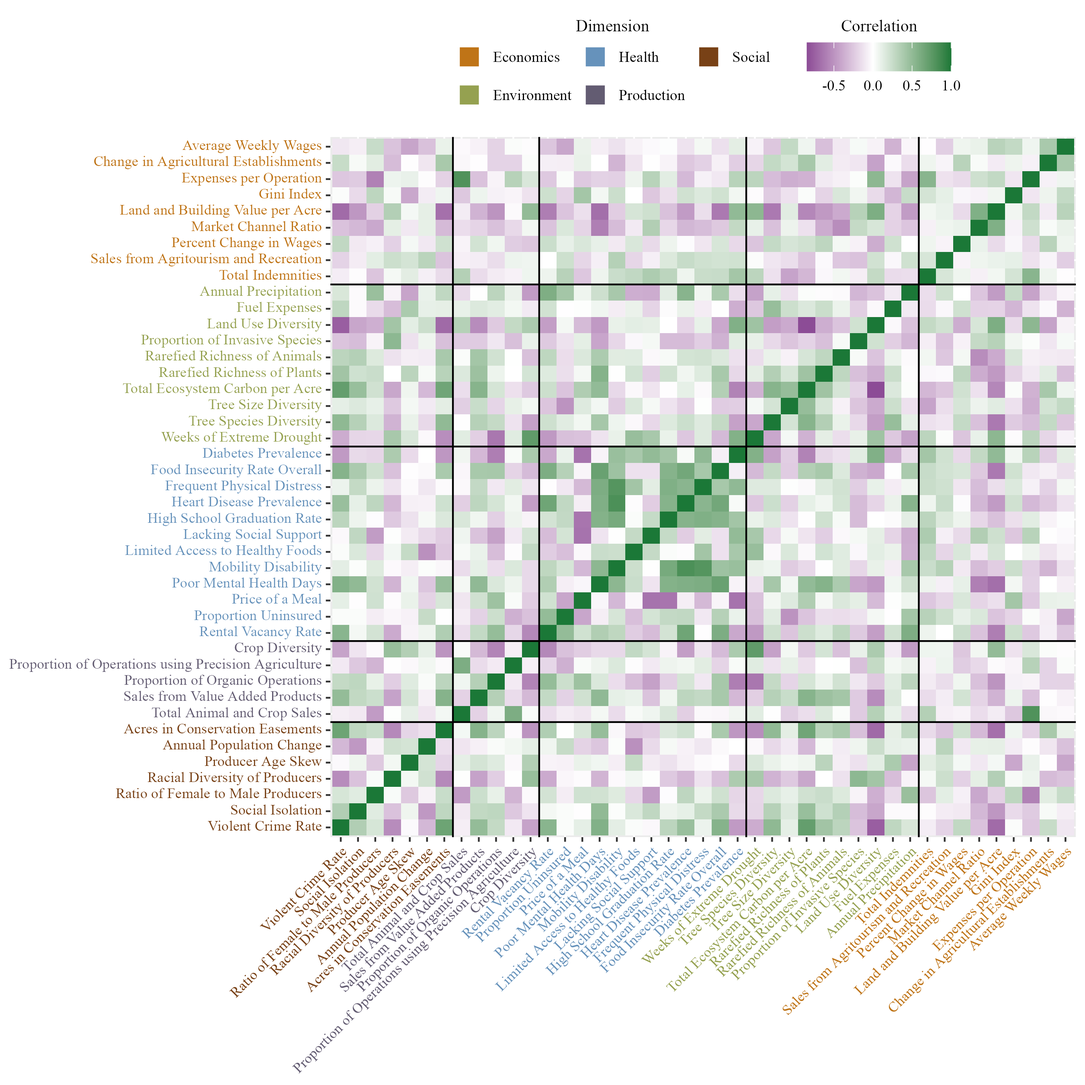
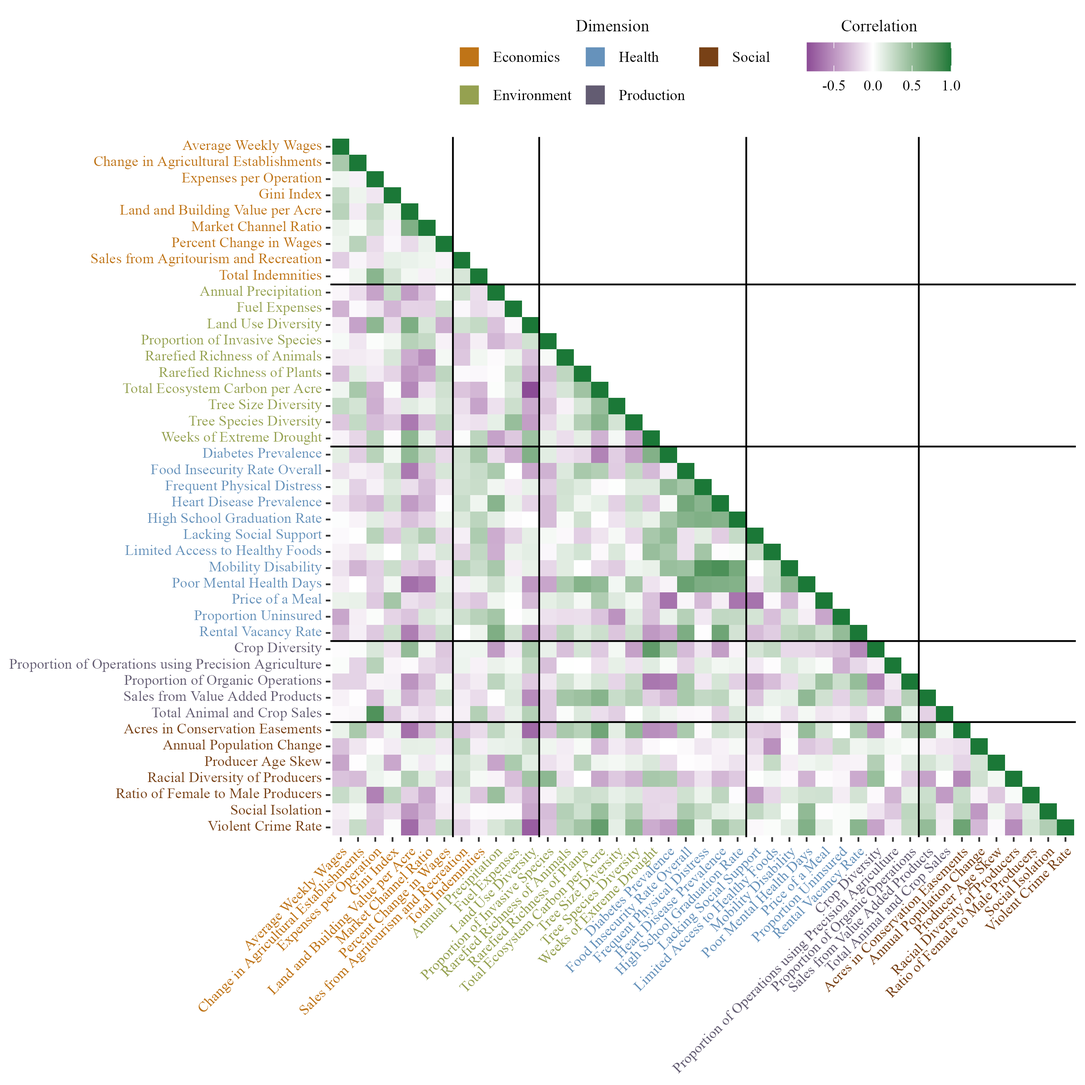
make correlation plot into triangle, transparent background, line placement no longer correct

diff --git a/outputs/tab_correlations.tex b/outputs/tab_correlations.tex
@@ -3,63 +3,61 @@
 \caption{\label{tab:tab_correlations}Correlation matrix of metrics using latest available time point}
 \centering
 \fontsize{5}{7}\selectfont
-\begin{tabular}[t]{lrrrrrrrrrrrrrrrrrrrrrrrrrrrrrrrrrrrrrrrrrrrrr}
+\begin{tabular}[t]{lrrrrrrrrrrrrrrrrrrrrrrrrrrrrrrrrrrrrrrrrrrr}
 \toprule
-var & Social & Ratio  & Racial & Produc & Firear & Annual & Acres  & Total  & Sales  & Propor & Propor & Crop D & Rental & Propor & Price  & Poor M & Mobili & Limite & Lackin & High S & Heart  & Freque & Food I & Diabet & Weeks  & Tree S & Tree S & Total  & Soil O & Rarefi & Rarefi & Propor & Land U & Fuel E & Availa & Annual & Total  & Sales  & Percen & Market & Land a & Gini I & Expens & Change & Averag\\
+var & Violen & Social & Ratio  & Racial & Produc & Annual & Acres  & Total  & Sales  & Propor & Propor & Crop D & Rental & Propor & Price  & Poor M & Mobili & Limite & Lackin & High S & Heart  & Freque & Food I & Diabet & Weeks  & Tree S & Tree S & Total  & Rarefi & Rarefi & Propor & Land U & Fuel E & Annual & Total  & Sales  & Percen & Market & Land a & Gini I & Expens & Change & Averag\\
 \midrule
-Social & 1.000 & 0.141 & -0.278 & 0.074 & 0.294 & -0.477 & 0.290 & -0.099 & 0.280 & 0.295 & -0.251 & -0.121 & 0.048 & 0.021 & -0.008 & 0.507 & 0.017 & 0.167 & 0.289 & 0.077 & 0.112 & 0.271 & 0.384 & -0.170 & -0.185 & 0.332 & 0.158 & 0.471 & 0.511 & 0.221 & 0.341 & -0.303 & -0.412 & -0.025 & 0.421 & -0.023 & -0.014 & -0.085 & -0.098 & -0.327 & -0.481 & -0.167 & -0.236 & 0.038 & -0.078\\
-Ratio & 0.141 & 1.000 & 0.029 & -0.248 & 0.158 & -0.060 & 0.250 & -0.462 & 0.235 & 0.105 & -0.345 & -0.025 & 0.200 & -0.082 & 0.217 & 0.209 & 0.147 & -0.180 & -0.460 & -0.011 & 0.295 & 0.087 & 0.218 & -0.187 & -0.182 & 0.157 & 0.109 & 0.215 & 0.425 & 0.244 & 0.156 & -0.052 & -0.366 & -0.166 & 0.073 & 0.465 & -0.266 & 0.126 & -0.066 & -0.399 & -0.210 & 0.300 & -0.587 & 0.133 & 0.253\\
-Racial & -0.278 & 0.029 & 1.000 & 0.054 & -0.483 & 0.215 & -0.549 & 0.009 & -0.431 & -0.223 & -0.004 & 0.472 & -0.391 & -0.041 & -0.017 & -0.344 & -0.025 & 0.056 & 0.008 & -0.246 & -0.332 & -0.128 & -0.282 & 0.377 & 0.399 & -0.348 & -0.248 & -0.408 & -0.281 & 0.002 & -0.132 & 0.523 & 0.422 & -0.301 & -0.253 & -0.054 & 0.045 & 0.232 & -0.208 & 0.118 & 0.347 & 0.035 & 0.081 & -0.307 & -0.275\\
-Produc & 0.074 & -0.248 & 0.054 & 1.000 & -0.060 & 0.194 & -0.192 & 0.113 & 0.196 & 0.145 & -0.033 & 0.350 & -0.053 & -0.062 & 0.097 & 0.067 & -0.077 & 0.265 & -0.091 & -0.132 & -0.068 & -0.023 & -0.011 & -0.168 & 0.171 & 0.096 & 0.049 & 0.074 & -0.024 & 0.311 & -0.077 & -0.136 & 0.125 & 0.383 & 0.268 & -0.419 & 0.128 & 0.195 & 0.048 & -0.102 & 0.047 & -0.404 & 0.099 & -0.007 & -0.417\\
-Firear & 0.294 & 0.158 & -0.483 & -0.060 & 1.000 & 0.022 & 0.593 & 0.031 & 0.267 & 0.453 & -0.201 & -0.565 & 0.670 & 0.557 & -0.062 & 0.340 & 0.092 & -0.371 & -0.101 & 0.332 & 0.400 & -0.033 & 0.491 & -0.438 & -0.656 & 0.452 & -0.198 & 0.354 & 0.533 & 0.185 & 0.245 & -0.322 & -0.486 & 0.214 & 0.440 & 0.428 & 0.038 & 0.044 & 0.272 & -0.327 & -0.769 & -0.205 & -0.192 & 0.232 & -0.163\\
+Violen & 1.000 & 0.355 & 0.184 & -0.536 & -0.027 & -0.325 & 0.673 & -0.075 & 0.491 & 0.271 & -0.098 & -0.426 & 0.543 & 0.022 & 0.116 & 0.574 & 0.121 & 0.024 & -0.032 & 0.308 & 0.467 & 0.084 & 0.558 & -0.470 & -0.380 & 0.516 & 0.117 & 0.714 & 0.428 & 0.304 & -0.269 & -0.755 & 0.292 & 0.175 & -0.080 & -0.199 & 0.282 & -0.277 & -0.695 & 0.019 & -0.255 & 0.256 & -0.109\\
+Social & 0.355 & 1.000 & 0.141 & -0.278 & 0.074 & -0.477 & 0.290 & -0.099 & 0.280 & 0.295 & -0.251 & -0.121 & 0.048 & 0.021 & -0.008 & 0.507 & 0.017 & 0.167 & 0.289 & 0.077 & 0.112 & 0.271 & 0.384 & -0.170 & -0.185 & 0.332 & 0.158 & 0.471 & 0.221 & 0.341 & -0.303 & -0.412 & -0.025 & -0.023 & -0.014 & -0.085 & -0.098 & -0.327 & -0.481 & -0.167 & -0.236 & 0.038 & -0.078\\
+Ratio & 0.184 & 0.141 & 1.000 & 0.029 & -0.248 & -0.060 & 0.250 & -0.462 & 0.235 & 0.105 & -0.345 & -0.025 & 0.200 & -0.082 & 0.217 & 0.209 & 0.147 & -0.180 & -0.460 & -0.011 & 0.295 & 0.087 & 0.218 & -0.187 & -0.182 & 0.157 & 0.109 & 0.215 & 0.244 & 0.156 & -0.052 & -0.366 & -0.166 & 0.465 & -0.266 & 0.126 & -0.066 & -0.399 & -0.210 & 0.300 & -0.587 & 0.133 & 0.253\\
+Racial & -0.536 & -0.278 & 0.029 & 1.000 & 0.054 & 0.215 & -0.549 & 0.009 & -0.431 & -0.223 & -0.004 & 0.472 & -0.391 & -0.041 & -0.017 & -0.344 & -0.025 & 0.056 & 0.008 & -0.246 & -0.332 & -0.128 & -0.282 & 0.377 & 0.399 & -0.348 & -0.248 & -0.408 & 0.002 & -0.132 & 0.523 & 0.422 & -0.301 & -0.054 & 0.045 & 0.232 & -0.208 & 0.118 & 0.347 & 0.035 & 0.081 & -0.307 & -0.275\\
+Produc & -0.027 & 0.074 & -0.248 & 0.054 & 1.000 & 0.194 & -0.192 & 0.113 & 0.196 & 0.145 & -0.033 & 0.350 & -0.053 & -0.062 & 0.097 & 0.067 & -0.077 & 0.265 & -0.091 & -0.132 & -0.068 & -0.023 & -0.011 & -0.168 & 0.171 & 0.096 & 0.049 & 0.074 & 0.311 & -0.077 & -0.136 & 0.125 & 0.383 & -0.419 & 0.128 & 0.195 & 0.048 & -0.102 & 0.047 & -0.404 & 0.099 & -0.007 & -0.417\\
 \addlinespace
-Annual & -0.477 & -0.060 & 0.215 & 0.194 & 0.022 & 1.000 & -0.144 & -0.116 & -0.069 & 0.027 & 0.060 & 0.116 & 0.070 & 0.262 & -0.201 & -0.261 & 0.016 & -0.515 & -0.167 & 0.042 & -0.061 & -0.109 & -0.028 & 0.001 & -0.032 & -0.174 & -0.096 & -0.319 & -0.194 & 0.038 & -0.087 & 0.072 & 0.238 & 0.108 & -0.081 & 0.094 & -0.072 & 0.317 & -0.106 & 0.109 & 0.114 & -0.088 & -0.012 & -0.115 & -0.285\\
-Acres & 0.290 & 0.250 & -0.549 & -0.192 & 0.593 & -0.144 & 1.000 & 0.053 & 0.555 & 0.304 & -0.024 & -0.496 & 0.360 & -0.006 & 0.181 & 0.481 & -0.038 & -0.249 & -0.226 & 0.165 & 0.221 & -0.020 & 0.391 & -0.483 & -0.526 & 0.505 & 0.124 & 0.658 & 0.673 & 0.323 & 0.395 & -0.289 & -0.702 & 0.114 & 0.580 & 0.287 & -0.165 & -0.268 & 0.220 & -0.315 & -0.668 & 0.071 & -0.206 & 0.396 & 0.095\\
-Total & -0.099 & -0.462 & 0.009 & 0.113 & 0.031 & -0.116 & 0.053 & 1.000 & -0.204 & 0.066 & 0.600 & 0.028 & -0.152 & -0.086 & -0.115 & 0.049 & -0.160 & 0.037 & 0.071 & 0.171 & -0.217 & -0.031 & -0.039 & 0.064 & 0.134 & 0.006 & -0.221 & -0.148 & -0.106 & 0.157 & 0.021 & -0.237 & 0.338 & 0.103 & -0.123 & -0.165 & 0.343 & -0.071 & -0.055 & -0.153 & -0.087 & -0.253 & 0.804 & -0.038 & -0.026\\
-Sales & 0.280 & 0.235 & -0.431 & 0.196 & 0.267 & -0.069 & 0.555 & -0.204 & 1.000 & 0.340 & -0.157 & -0.322 & 0.272 & -0.206 & 0.216 & 0.509 & 0.112 & 0.094 & -0.274 & 0.067 & 0.302 & 0.274 & 0.398 & -0.324 & -0.219 & 0.333 & 0.250 & 0.553 & 0.548 & 0.451 & 0.416 & -0.237 & -0.534 & 0.160 & 0.588 & 0.006 & -0.160 & -0.081 & 0.206 & -0.195 & -0.352 & 0.081 & -0.278 & -0.009 & -0.063\\
-Propor & 0.295 & 0.105 & -0.223 & 0.145 & 0.453 & 0.027 & 0.304 & 0.066 & 0.340 & 1.000 & -0.093 & -0.574 & 0.486 & 0.232 & 0.447 & 0.167 & -0.152 & -0.301 & -0.434 & -0.214 & 0.190 & -0.103 & 0.405 & -0.601 & -0.635 & 0.266 & -0.192 & 0.189 & 0.377 & 0.083 & 0.211 & -0.110 & -0.241 & 0.130 & 0.301 & 0.308 & -0.090 & -0.156 & 0.067 & -0.282 & -0.498 & -0.065 & -0.052 & -0.199 & -0.202\\
+Annual & -0.325 & -0.477 & -0.060 & 0.215 & 0.194 & 1.000 & -0.144 & -0.116 & -0.069 & 0.027 & 0.060 & 0.116 & 0.070 & 0.262 & -0.201 & -0.261 & 0.016 & -0.515 & -0.167 & 0.042 & -0.061 & -0.109 & -0.028 & 0.001 & -0.032 & -0.174 & -0.096 & -0.319 & 0.038 & -0.087 & 0.072 & 0.238 & 0.108 & 0.094 & -0.072 & 0.317 & -0.106 & 0.109 & 0.114 & -0.088 & -0.012 & -0.115 & -0.285\\
+Acres & 0.673 & 0.290 & 0.250 & -0.549 & -0.192 & -0.144 & 1.000 & 0.053 & 0.555 & 0.304 & -0.024 & -0.496 & 0.360 & -0.006 & 0.181 & 0.481 & -0.038 & -0.249 & -0.226 & 0.165 & 0.221 & -0.020 & 0.391 & -0.483 & -0.526 & 0.505 & 0.124 & 0.658 & 0.323 & 0.395 & -0.289 & -0.702 & 0.114 & 0.287 & -0.165 & -0.268 & 0.220 & -0.315 & -0.668 & 0.071 & -0.206 & 0.396 & 0.095\\
+Total & -0.075 & -0.099 & -0.462 & 0.009 & 0.113 & -0.116 & 0.053 & 1.000 & -0.204 & 0.066 & 0.600 & 0.028 & -0.152 & -0.086 & -0.115 & 0.049 & -0.160 & 0.037 & 0.071 & 0.171 & -0.217 & -0.031 & -0.039 & 0.064 & 0.134 & 0.006 & -0.221 & -0.148 & 0.157 & 0.021 & -0.237 & 0.338 & 0.103 & -0.165 & 0.343 & -0.071 & -0.055 & -0.153 & -0.087 & -0.253 & 0.804 & -0.038 & -0.026\\
+Sales & 0.491 & 0.280 & 0.235 & -0.431 & 0.196 & -0.069 & 0.555 & -0.204 & 1.000 & 0.340 & -0.157 & -0.322 & 0.272 & -0.206 & 0.216 & 0.509 & 0.112 & 0.094 & -0.274 & 0.067 & 0.302 & 0.274 & 0.398 & -0.324 & -0.219 & 0.333 & 0.250 & 0.553 & 0.451 & 0.416 & -0.237 & -0.534 & 0.160 & 0.006 & -0.160 & -0.081 & 0.206 & -0.195 & -0.352 & 0.081 & -0.278 & -0.009 & -0.063\\
+Propor & 0.271 & 0.295 & 0.105 & -0.223 & 0.145 & 0.027 & 0.304 & 0.066 & 0.340 & 1.000 & -0.093 & -0.574 & 0.486 & 0.232 & 0.447 & 0.167 & -0.152 & -0.301 & -0.434 & -0.214 & 0.190 & -0.103 & 0.405 & -0.601 & -0.635 & 0.266 & -0.192 & 0.189 & 0.083 & 0.211 & -0.110 & -0.241 & 0.130 & 0.308 & -0.090 & -0.156 & 0.067 & -0.282 & -0.498 & -0.065 & -0.052 & -0.199 & -0.202\\
 \addlinespace
-Propor & -0.251 & -0.345 & -0.004 & -0.033 & -0.201 & 0.060 & -0.024 & 0.600 & -0.157 & -0.093 & 1.000 & -0.070 & -0.184 & -0.365 & 0.028 & 0.076 & 0.162 & -0.015 & -0.097 & 0.077 & 0.059 & 0.132 & -0.194 & 0.032 & 0.139 & -0.125 & 0.110 & -0.138 & -0.164 & -0.001 & 0.003 & -0.290 & 0.271 & 0.053 & -0.310 & 0.091 & -0.062 & 0.080 & -0.229 & -0.171 & -0.021 & -0.048 & 0.331 & -0.199 & 0.023\\
-Crop D & -0.121 & -0.025 & 0.472 & 0.350 & -0.565 & 0.116 & -0.496 & 0.028 & -0.322 & -0.574 & -0.070 & 1.000 & -0.556 & -0.284 & -0.227 & -0.174 & -0.172 & 0.279 & 0.196 & -0.055 & -0.449 & -0.117 & -0.311 & 0.383 & 0.734 & -0.434 & 0.053 & -0.247 & -0.297 & 0.198 & -0.288 & 0.099 & 0.381 & -0.094 & -0.155 & -0.463 & 0.075 & 0.071 & -0.256 & 0.060 & 0.496 & -0.130 & 0.171 & 0.022 & -0.013\\
-Rental & 0.048 & 0.200 & -0.391 & -0.053 & 0.670 & 0.070 & 0.360 & -0.152 & 0.272 & 0.486 & -0.184 & -0.556 & 1.000 & 0.493 & 0.213 & 0.357 & 0.294 & -0.230 & -0.309 & 0.202 & 0.664 & -0.010 & 0.599 & -0.401 & -0.474 & 0.222 & -0.264 & 0.233 & 0.374 & 0.148 & 0.295 & -0.244 & -0.449 & 0.208 & 0.307 & 0.591 & 0.077 & 0.001 & 0.240 & -0.275 & -0.603 & 0.228 & -0.245 & -0.073 & -0.258\\
-Propor & 0.021 & -0.082 & -0.041 & -0.062 & 0.557 & 0.262 & -0.006 & -0.086 & -0.206 & 0.232 & -0.365 & -0.284 & 0.493 & 1.000 & -0.410 & -0.076 & 0.188 & -0.295 & 0.197 & 0.274 & 0.281 & -0.103 & 0.334 & 0.093 & -0.288 & 0.134 & -0.500 & -0.267 & 0.028 & -0.146 & -0.153 & -0.133 & 0.049 & -0.003 & 0.036 & 0.416 & 0.325 & 0.228 & 0.107 & 0.167 & -0.271 & -0.197 & 0.022 & -0.077 & -0.408\\
-Price & -0.008 & 0.217 & -0.017 & 0.097 & -0.062 & -0.201 & 0.181 & -0.115 & 0.216 & 0.447 & 0.028 & -0.227 & 0.213 & -0.410 & 1.000 & -0.042 & -0.327 & -0.033 & -0.657 & -0.644 & -0.077 & -0.320 & -0.046 & -0.656 & -0.279 & 0.060 & 0.150 & 0.363 & 0.200 & 0.047 & 0.164 & 0.119 & -0.313 & 0.009 & 0.111 & 0.073 & -0.255 & -0.186 & 0.174 & -0.193 & -0.140 & 0.419 & -0.245 & 0.101 & 0.092\\
+Propor & -0.098 & -0.251 & -0.345 & -0.004 & -0.033 & 0.060 & -0.024 & 0.600 & -0.157 & -0.093 & 1.000 & -0.070 & -0.184 & -0.365 & 0.028 & 0.076 & 0.162 & -0.015 & -0.097 & 0.077 & 0.059 & 0.132 & -0.194 & 0.032 & 0.139 & -0.125 & 0.110 & -0.138 & -0.001 & 0.003 & -0.290 & 0.271 & 0.053 & 0.091 & -0.062 & 0.080 & -0.229 & -0.171 & -0.021 & -0.048 & 0.331 & -0.199 & 0.023\\
+Crop D & -0.426 & -0.121 & -0.025 & 0.472 & 0.350 & 0.116 & -0.496 & 0.028 & -0.322 & -0.574 & -0.070 & 1.000 & -0.556 & -0.284 & -0.227 & -0.174 & -0.172 & 0.279 & 0.196 & -0.055 & -0.449 & -0.117 & -0.311 & 0.383 & 0.734 & -0.434 & 0.053 & -0.247 & 0.198 & -0.288 & 0.099 & 0.381 & -0.094 & -0.463 & 0.075 & 0.071 & -0.256 & 0.060 & 0.496 & -0.130 & 0.171 & 0.022 & -0.013\\
+Rental & 0.543 & 0.048 & 0.200 & -0.391 & -0.053 & 0.070 & 0.360 & -0.152 & 0.272 & 0.486 & -0.184 & -0.556 & 1.000 & 0.493 & 0.213 & 0.357 & 0.294 & -0.230 & -0.309 & 0.202 & 0.664 & -0.010 & 0.599 & -0.401 & -0.474 & 0.222 & -0.264 & 0.233 & 0.148 & 0.295 & -0.244 & -0.449 & 0.208 & 0.591 & 0.077 & 0.001 & 0.240 & -0.275 & -0.603 & 0.228 & -0.245 & -0.073 & -0.258\\
+Propor & 0.022 & 0.021 & -0.082 & -0.041 & -0.062 & 0.262 & -0.006 & -0.086 & -0.206 & 0.232 & -0.365 & -0.284 & 0.493 & 1.000 & -0.410 & -0.076 & 0.188 & -0.295 & 0.197 & 0.274 & 0.281 & -0.103 & 0.334 & 0.093 & -0.288 & 0.134 & -0.500 & -0.267 & -0.146 & -0.153 & -0.133 & 0.049 & -0.003 & 0.416 & 0.325 & 0.228 & 0.107 & 0.167 & -0.271 & -0.197 & 0.022 & -0.077 & -0.408\\
+Price & 0.116 & -0.008 & 0.217 & -0.017 & 0.097 & -0.201 & 0.181 & -0.115 & 0.216 & 0.447 & 0.028 & -0.227 & 0.213 & -0.410 & 1.000 & -0.042 & -0.327 & -0.033 & -0.657 & -0.644 & -0.077 & -0.320 & -0.046 & -0.656 & -0.279 & 0.060 & 0.150 & 0.363 & 0.047 & 0.164 & 0.119 & -0.313 & 0.009 & 0.073 & -0.255 & -0.186 & 0.174 & -0.193 & -0.140 & 0.419 & -0.245 & 0.101 & 0.092\\
 \addlinespace
-Poor M & 0.507 & 0.209 & -0.344 & 0.067 & 0.340 & -0.261 & 0.481 & 0.049 & 0.509 & 0.167 & 0.076 & -0.174 & 0.357 & -0.076 & -0.042 & 1.000 & 0.526 & 0.245 & -0.120 & 0.566 & 0.584 & 0.600 & 0.690 & -0.055 & -0.127 & 0.406 & 0.057 & 0.500 & 0.636 & 0.561 & 0.380 & -0.414 & -0.471 & 0.066 & 0.466 & 0.229 & 0.077 & -0.073 & 0.108 & -0.596 & -0.677 & 0.056 & -0.207 & 0.002 & -0.078\\
-Mobili & 0.017 & 0.147 & -0.025 & -0.077 & 0.092 & 0.016 & -0.038 & -0.160 & 0.112 & -0.152 & 0.162 & -0.172 & 0.294 & 0.188 & -0.327 & 0.526 & 1.000 & 0.232 & 0.007 & 0.627 & 0.820 & 0.783 & 0.445 & 0.468 & 0.102 & 0.076 & -0.235 & -0.171 & 0.203 & -0.005 & 0.137 & -0.180 & 0.101 & -0.083 & -0.116 & 0.400 & 0.244 & 0.339 & -0.099 & -0.309 & -0.226 & 0.239 & -0.214 & -0.344 & -0.133\\
-Limite & 0.167 & -0.180 & 0.056 & 0.265 & -0.371 & -0.515 & -0.249 & 0.037 & 0.094 & -0.301 & -0.015 & 0.279 & -0.230 & -0.295 & -0.033 & 0.245 & 0.232 & 1.000 & 0.266 & 0.023 & -0.015 & 0.423 & -0.135 & 0.400 & 0.473 & -0.033 & 0.168 & -0.033 & -0.121 & 0.207 & 0.140 & -0.034 & 0.126 & 0.092 & -0.076 & -0.375 & 0.281 & -0.188 & 0.173 & -0.094 & 0.186 & -0.001 & 0.079 & -0.122 & -0.059\\
-Lackin & 0.289 & -0.460 & 0.008 & -0.091 & -0.101 & -0.167 & -0.226 & 0.071 & -0.274 & -0.434 & -0.097 & 0.196 & -0.309 & 0.197 & -0.657 & -0.120 & 0.007 & 0.266 & 1.000 & 0.263 & -0.227 & 0.129 & -0.135 & 0.497 & 0.400 & -0.175 & 0.040 & -0.124 & -0.172 & -0.222 & -0.030 & 0.047 & 0.114 & -0.195 & 0.052 & -0.383 & 0.374 & -0.072 & -0.170 & 0.354 & 0.225 & -0.258 & 0.324 & 0.006 & -0.027\\
-High S & 0.077 & -0.011 & -0.246 & -0.132 & 0.332 & 0.042 & 0.165 & 0.171 & 0.067 & -0.214 & 0.077 & -0.055 & 0.202 & 0.274 & -0.644 & 0.566 & 0.627 & 0.023 & 0.263 & 1.000 & 0.559 & 0.583 & 0.559 & 0.421 & 0.095 & 0.153 & -0.128 & -0.010 & 0.272 & 0.218 & 0.038 & -0.308 & -0.001 & -0.020 & 0.170 & 0.127 & 0.304 & 0.161 & 0.078 & -0.182 & -0.284 & -0.146 & 0.130 & -0.056 & 0.011\\
+Poor M & 0.574 & 0.507 & 0.209 & -0.344 & 0.067 & -0.261 & 0.481 & 0.049 & 0.509 & 0.167 & 0.076 & -0.174 & 0.357 & -0.076 & -0.042 & 1.000 & 0.526 & 0.245 & -0.120 & 0.566 & 0.584 & 0.600 & 0.690 & -0.055 & -0.127 & 0.406 & 0.057 & 0.500 & 0.561 & 0.380 & -0.414 & -0.471 & 0.066 & 0.229 & 0.077 & -0.073 & 0.108 & -0.596 & -0.677 & 0.056 & -0.207 & 0.002 & -0.078\\
+Mobili & 0.121 & 0.017 & 0.147 & -0.025 & -0.077 & 0.016 & -0.038 & -0.160 & 0.112 & -0.152 & 0.162 & -0.172 & 0.294 & 0.188 & -0.327 & 0.526 & 1.000 & 0.232 & 0.007 & 0.627 & 0.820 & 0.783 & 0.445 & 0.468 & 0.102 & 0.076 & -0.235 & -0.171 & -0.005 & 0.137 & -0.180 & 0.101 & -0.083 & 0.400 & 0.244 & 0.339 & -0.099 & -0.309 & -0.226 & 0.239 & -0.214 & -0.344 & -0.133\\
+Limite & 0.024 & 0.167 & -0.180 & 0.056 & 0.265 & -0.515 & -0.249 & 0.037 & 0.094 & -0.301 & -0.015 & 0.279 & -0.230 & -0.295 & -0.033 & 0.245 & 0.232 & 1.000 & 0.266 & 0.023 & -0.015 & 0.423 & -0.135 & 0.400 & 0.473 & -0.033 & 0.168 & -0.033 & 0.207 & 0.140 & -0.034 & 0.126 & 0.092 & -0.375 & 0.281 & -0.188 & 0.173 & -0.094 & 0.186 & -0.001 & 0.079 & -0.122 & -0.059\\
+Lackin & -0.032 & 0.289 & -0.460 & 0.008 & -0.091 & -0.167 & -0.226 & 0.071 & -0.274 & -0.434 & -0.097 & 0.196 & -0.309 & 0.197 & -0.657 & -0.120 & 0.007 & 0.266 & 1.000 & 0.263 & -0.227 & 0.129 & -0.135 & 0.497 & 0.400 & -0.175 & 0.040 & -0.124 & -0.222 & -0.030 & 0.047 & 0.114 & -0.195 & -0.383 & 0.374 & -0.072 & -0.170 & 0.354 & 0.225 & -0.258 & 0.324 & 0.006 & -0.027\\
+High S & 0.308 & 0.077 & -0.011 & -0.246 & -0.132 & 0.042 & 0.165 & 0.171 & 0.067 & -0.214 & 0.077 & -0.055 & 0.202 & 0.274 & -0.644 & 0.566 & 0.627 & 0.023 & 0.263 & 1.000 & 0.559 & 0.583 & 0.559 & 0.421 & 0.095 & 0.153 & -0.128 & -0.010 & 0.218 & 0.038 & -0.308 & -0.001 & -0.020 & 0.127 & 0.304 & 0.161 & 0.078 & -0.182 & -0.284 & -0.146 & 0.130 & -0.056 & 0.011\\
 \addlinespace
-Heart & 0.112 & 0.295 & -0.332 & -0.068 & 0.400 & -0.061 & 0.221 & -0.217 & 0.302 & 0.190 & 0.059 & -0.449 & 0.664 & 0.281 & -0.077 & 0.584 & 0.820 & -0.015 & -0.227 & 0.559 & 1.000 & 0.539 & 0.646 & 0.034 & -0.254 & 0.235 & -0.210 & 0.111 & 0.382 & 0.063 & 0.200 & -0.308 & -0.190 & 0.091 & 0.092 & 0.550 & 0.074 & 0.253 & -0.019 & -0.333 & -0.463 & 0.216 & -0.319 & -0.249 & -0.126\\
-Freque & 0.271 & 0.087 & -0.128 & -0.023 & -0.033 & -0.109 & -0.020 & -0.031 & 0.274 & -0.103 & 0.132 & -0.117 & -0.010 & -0.103 & -0.320 & 0.600 & 0.783 & 0.423 & 0.129 & 0.583 & 0.539 & 1.000 & 0.405 & 0.510 & 0.150 & 0.149 & 0.008 & -0.029 & 0.257 & 0.148 & 0.208 & -0.224 & 0.103 & -0.086 & -0.038 & 0.064 & 0.247 & 0.217 & -0.114 & -0.303 & -0.147 & 0.159 & -0.065 & -0.207 & 0.049\\
-Food I & 0.384 & 0.218 & -0.282 & -0.011 & 0.491 & -0.028 & 0.391 & -0.039 & 0.398 & 0.405 & -0.194 & -0.311 & 0.599 & 0.334 & -0.046 & 0.690 & 0.445 & -0.135 & -0.135 & 0.559 & 0.646 & 0.405 & 1.000 & -0.074 & -0.318 & 0.271 & -0.232 & 0.350 & 0.583 & 0.397 & 0.158 & -0.355 & -0.399 & -0.006 & 0.448 & 0.388 & 0.254 & 0.205 & 0.182 & -0.248 & -0.624 & 0.213 & -0.104 & -0.069 & -0.140\\
-Diabet & -0.170 & -0.187 & 0.377 & -0.168 & -0.438 & 0.001 & -0.483 & 0.064 & -0.324 & -0.601 & 0.032 & 0.383 & -0.401 & 0.093 & -0.656 & -0.055 & 0.468 & 0.400 & 0.497 & 0.421 & 0.034 & 0.510 & -0.074 & 1.000 & 0.571 & -0.433 & -0.223 & -0.580 & -0.254 & -0.178 & -0.135 & 0.130 & 0.579 & -0.372 & -0.401 & -0.150 & 0.417 & 0.214 & -0.172 & 0.276 & 0.504 & 0.060 & 0.323 & -0.223 & 0.124\\
-Weeks & -0.185 & -0.182 & 0.399 & 0.171 & -0.656 & -0.032 & -0.526 & 0.134 & -0.219 & -0.635 & 0.139 & 0.734 & -0.474 & -0.288 & -0.279 & -0.127 & 0.102 & 0.473 & 0.400 & 0.095 & -0.254 & 0.150 & -0.318 & 0.571 & 1.000 & -0.406 & 0.048 & -0.355 & -0.305 & 0.120 & -0.148 & 0.105 & 0.440 & -0.252 & -0.190 & -0.429 & 0.306 & 0.019 & -0.267 & 0.104 & 0.526 & -0.016 & 0.306 & -0.188 & -0.059\\
+Heart & 0.467 & 0.112 & 0.295 & -0.332 & -0.068 & -0.061 & 0.221 & -0.217 & 0.302 & 0.190 & 0.059 & -0.449 & 0.664 & 0.281 & -0.077 & 0.584 & 0.820 & -0.015 & -0.227 & 0.559 & 1.000 & 0.539 & 0.646 & 0.034 & -0.254 & 0.235 & -0.210 & 0.111 & 0.063 & 0.200 & -0.308 & -0.190 & 0.091 & 0.550 & 0.074 & 0.253 & -0.019 & -0.333 & -0.463 & 0.216 & -0.319 & -0.249 & -0.126\\
+Freque & 0.084 & 0.271 & 0.087 & -0.128 & -0.023 & -0.109 & -0.020 & -0.031 & 0.274 & -0.103 & 0.132 & -0.117 & -0.010 & -0.103 & -0.320 & 0.600 & 0.783 & 0.423 & 0.129 & 0.583 & 0.539 & 1.000 & 0.405 & 0.510 & 0.150 & 0.149 & 0.008 & -0.029 & 0.148 & 0.208 & -0.224 & 0.103 & -0.086 & 0.064 & 0.247 & 0.217 & -0.114 & -0.303 & -0.147 & 0.159 & -0.065 & -0.207 & 0.049\\
+Food I & 0.558 & 0.384 & 0.218 & -0.282 & -0.011 & -0.028 & 0.391 & -0.039 & 0.398 & 0.405 & -0.194 & -0.311 & 0.599 & 0.334 & -0.046 & 0.690 & 0.445 & -0.135 & -0.135 & 0.559 & 0.646 & 0.405 & 1.000 & -0.074 & -0.318 & 0.271 & -0.232 & 0.350 & 0.397 & 0.158 & -0.355 & -0.399 & -0.006 & 0.388 & 0.254 & 0.205 & 0.182 & -0.248 & -0.624 & 0.213 & -0.104 & -0.069 & -0.140\\
+Diabet & -0.470 & -0.170 & -0.187 & 0.377 & -0.168 & 0.001 & -0.483 & 0.064 & -0.324 & -0.601 & 0.032 & 0.383 & -0.401 & 0.093 & -0.656 & -0.055 & 0.468 & 0.400 & 0.497 & 0.421 & 0.034 & 0.510 & -0.074 & 1.000 & 0.571 & -0.433 & -0.223 & -0.580 & -0.178 & -0.135 & 0.130 & 0.579 & -0.372 & -0.150 & 0.417 & 0.214 & -0.172 & 0.276 & 0.504 & 0.060 & 0.323 & -0.223 & 0.124\\
+Weeks & -0.380 & -0.185 & -0.182 & 0.399 & 0.171 & -0.032 & -0.526 & 0.134 & -0.219 & -0.635 & 0.139 & 0.734 & -0.474 & -0.288 & -0.279 & -0.127 & 0.102 & 0.473 & 0.400 & 0.095 & -0.254 & 0.150 & -0.318 & 0.571 & 1.000 & -0.406 & 0.048 & -0.355 & 0.120 & -0.148 & 0.105 & 0.440 & -0.252 & -0.429 & 0.306 & 0.019 & -0.267 & 0.104 & 0.526 & -0.016 & 0.306 & -0.188 & -0.059\\
 \addlinespace
-Tree S & 0.332 & 0.157 & -0.348 & 0.096 & 0.452 & -0.174 & 0.505 & 0.006 & 0.333 & 0.266 & -0.125 & -0.434 & 0.222 & 0.134 & 0.060 & 0.406 & 0.076 & -0.033 & -0.175 & 0.153 & 0.235 & 0.149 & 0.271 & -0.433 & -0.406 & 1.000 & 0.194 & 0.553 & 0.235 & 0.348 & 0.095 & -0.172 & -0.450 & 0.479 & 0.346 & 0.111 & -0.135 & -0.113 & 0.269 & -0.283 & -0.625 & -0.238 & -0.303 & 0.272 & -0.258\\
-Tree S & 0.158 & 0.109 & -0.248 & 0.049 & -0.198 & -0.096 & 0.124 & -0.221 & 0.250 & -0.192 & 0.110 & 0.053 & -0.264 & -0.500 & 0.150 & 0.057 & -0.235 & 0.168 & 0.040 & -0.128 & -0.210 & 0.008 & -0.232 & -0.223 & 0.048 & 0.194 & 1.000 & 0.483 & 0.070 & 0.181 & -0.062 & -0.264 & -0.391 & 0.232 & 0.239 & -0.136 & -0.423 & -0.151 & 0.188 & 0.083 & 0.136 & -0.137 & -0.373 & 0.198 & 0.273\\
-Total & 0.471 & 0.215 & -0.408 & 0.074 & 0.354 & -0.319 & 0.658 & -0.148 & 0.553 & 0.189 & -0.138 & -0.247 & 0.233 & -0.267 & 0.363 & 0.500 & -0.171 & -0.033 & -0.124 & -0.010 & 0.111 & -0.029 & 0.350 & -0.580 & -0.355 & 0.553 & 0.483 & 1.000 & 0.606 & 0.436 & 0.185 & -0.200 & -0.845 & 0.164 & 0.736 & 0.018 & -0.330 & -0.265 & 0.216 & -0.134 & -0.557 & 0.022 & -0.352 & 0.404 & 0.071\\
-Soil O & 0.511 & 0.425 & -0.281 & -0.024 & 0.533 & -0.194 & 0.673 & -0.106 & 0.548 & 0.377 & -0.164 & -0.297 & 0.374 & 0.028 & 0.200 & 0.636 & 0.203 & -0.121 & -0.172 & 0.272 & 0.382 & 0.257 & 0.583 & -0.254 & -0.305 & 0.235 & 0.070 & 0.606 & 1.000 & 0.358 & 0.344 & -0.294 & -0.628 & -0.304 & 0.712 & 0.356 & -0.014 & -0.092 & 0.052 & -0.410 & -0.616 & 0.104 & -0.272 & 0.206 & 0.142\\
-Rarefi & 0.221 & 0.244 & 0.002 & 0.311 & 0.185 & 0.038 & 0.323 & 0.157 & 0.451 & 0.083 & -0.001 & 0.198 & 0.148 & -0.146 & 0.047 & 0.561 & -0.005 & 0.207 & -0.222 & 0.218 & 0.063 & 0.148 & 0.397 & -0.178 & 0.120 & 0.348 & 0.181 & 0.436 & 0.358 & 1.000 & 0.293 & -0.291 & -0.371 & 0.242 & 0.464 & -0.016 & -0.034 & -0.027 & 0.297 & -0.383 & -0.472 & -0.194 & -0.097 & 0.129 & -0.291\\
+Tree S & 0.516 & 0.332 & 0.157 & -0.348 & 0.096 & -0.174 & 0.505 & 0.006 & 0.333 & 0.266 & -0.125 & -0.434 & 0.222 & 0.134 & 0.060 & 0.406 & 0.076 & -0.033 & -0.175 & 0.153 & 0.235 & 0.149 & 0.271 & -0.433 & -0.406 & 1.000 & 0.194 & 0.553 & 0.348 & 0.095 & -0.172 & -0.450 & 0.479 & 0.111 & -0.135 & -0.113 & 0.269 & -0.283 & -0.625 & -0.238 & -0.303 & 0.272 & -0.258\\
+Tree S & 0.117 & 0.158 & 0.109 & -0.248 & 0.049 & -0.096 & 0.124 & -0.221 & 0.250 & -0.192 & 0.110 & 0.053 & -0.264 & -0.500 & 0.150 & 0.057 & -0.235 & 0.168 & 0.040 & -0.128 & -0.210 & 0.008 & -0.232 & -0.223 & 0.048 & 0.194 & 1.000 & 0.483 & 0.181 & -0.062 & -0.264 & -0.391 & 0.232 & -0.136 & -0.423 & -0.151 & 0.188 & 0.083 & 0.136 & -0.137 & -0.373 & 0.198 & 0.273\\
+Total & 0.714 & 0.471 & 0.215 & -0.408 & 0.074 & -0.319 & 0.658 & -0.148 & 0.553 & 0.189 & -0.138 & -0.247 & 0.233 & -0.267 & 0.363 & 0.500 & -0.171 & -0.033 & -0.124 & -0.010 & 0.111 & -0.029 & 0.350 & -0.580 & -0.355 & 0.553 & 0.483 & 1.000 & 0.436 & 0.185 & -0.200 & -0.845 & 0.164 & 0.018 & -0.330 & -0.265 & 0.216 & -0.134 & -0.557 & 0.022 & -0.352 & 0.404 & 0.071\\
+Rarefi & 0.428 & 0.221 & 0.244 & 0.002 & 0.311 & 0.038 & 0.323 & 0.157 & 0.451 & 0.083 & -0.001 & 0.198 & 0.148 & -0.146 & 0.047 & 0.561 & -0.005 & 0.207 & -0.222 & 0.218 & 0.063 & 0.148 & 0.397 & -0.178 & 0.120 & 0.348 & 0.181 & 0.436 & 1.000 & 0.293 & -0.291 & -0.371 & 0.242 & -0.016 & -0.034 & -0.027 & 0.297 & -0.383 & -0.472 & -0.194 & -0.097 & 0.129 & -0.291\\
+Rarefi & 0.304 & 0.341 & 0.156 & -0.132 & -0.077 & -0.087 & 0.395 & 0.021 & 0.416 & 0.211 & 0.003 & -0.288 & 0.295 & -0.153 & 0.164 & 0.380 & 0.137 & 0.140 & -0.030 & 0.038 & 0.200 & 0.208 & 0.158 & -0.135 & -0.148 & 0.095 & -0.062 & 0.185 & 0.293 & 1.000 & 0.036 & -0.271 & 0.087 & -0.022 & 0.060 & -0.255 & 0.051 & -0.528 & -0.390 & 0.172 & -0.068 & -0.091 & -0.101\\
 \addlinespace
-Rarefi & 0.341 & 0.156 & -0.132 & -0.077 & 0.245 & -0.087 & 0.395 & 0.021 & 0.416 & 0.211 & 0.003 & -0.288 & 0.295 & -0.153 & 0.164 & 0.380 & 0.137 & 0.140 & -0.030 & 0.038 & 0.200 & 0.208 & 0.158 & -0.135 & -0.148 & 0.095 & -0.062 & 0.185 & 0.344 & 0.293 & 1.000 & 0.036 & -0.271 & 0.087 & 0.175 & -0.022 & 0.060 & -0.255 & 0.051 & -0.528 & -0.390 & 0.172 & -0.068 & -0.091 & -0.101\\
-Propor & -0.303 & -0.052 & 0.523 & -0.136 & -0.322 & 0.072 & -0.289 & -0.237 & -0.237 & -0.110 & -0.290 & 0.099 & -0.244 & -0.133 & 0.119 & -0.414 & -0.180 & -0.034 & 0.047 & -0.308 & -0.308 & -0.224 & -0.355 & 0.130 & 0.105 & -0.172 & -0.264 & -0.200 & -0.294 & -0.291 & 0.036 & 1.000 & 0.214 & -0.218 & -0.162 & -0.336 & -0.076 & -0.278 & -0.063 & 0.266 & 0.328 & 0.065 & 0.017 & -0.112 & 0.039\\
-Land U & -0.412 & -0.366 & 0.422 & 0.125 & -0.486 & 0.238 & -0.702 & 0.338 & -0.534 & -0.241 & 0.271 & 0.381 & -0.449 & 0.049 & -0.313 & -0.471 & 0.101 & 0.126 & 0.114 & -0.001 & -0.190 & 0.103 & -0.399 & 0.579 & 0.440 & -0.450 & -0.391 & -0.845 & -0.628 & -0.371 & -0.271 & 0.214 & 1.000 & -0.032 & -0.752 & -0.279 & 0.271 & 0.210 & -0.378 & 0.184 & 0.597 & -0.163 & 0.525 & -0.430 & -0.060\\
-Fuel E & -0.025 & -0.166 & -0.301 & 0.383 & 0.214 & 0.108 & 0.114 & 0.103 & 0.160 & 0.130 & 0.053 & -0.094 & 0.208 & -0.003 & 0.009 & 0.066 & -0.083 & 0.092 & -0.195 & -0.020 & 0.091 & -0.086 & -0.006 & -0.372 & -0.252 & 0.479 & 0.232 & 0.164 & -0.304 & 0.242 & 0.087 & -0.218 & -0.032 & 1.000 & -0.028 & -0.094 & -0.157 & -0.034 & 0.219 & -0.204 & -0.198 & -0.333 & -0.128 & -0.027 & -0.353\\
-Availa & 0.421 & 0.073 & -0.253 & 0.268 & 0.440 & -0.081 & 0.580 & -0.123 & 0.588 & 0.301 & -0.310 & -0.155 & 0.307 & 0.036 & 0.111 & 0.466 & -0.116 & -0.076 & 0.052 & 0.170 & 0.092 & -0.038 & 0.448 & -0.401 & -0.190 & 0.346 & 0.239 & 0.736 & 0.712 & 0.464 & 0.175 & -0.162 & -0.752 & -0.028 & 1.000 & -0.004 & -0.121 & -0.185 & 0.260 & -0.084 & -0.487 & -0.176 & -0.214 & 0.264 & -0.175\\
+Propor & -0.269 & -0.303 & -0.052 & 0.523 & -0.136 & 0.072 & -0.289 & -0.237 & -0.237 & -0.110 & -0.290 & 0.099 & -0.244 & -0.133 & 0.119 & -0.414 & -0.180 & -0.034 & 0.047 & -0.308 & -0.308 & -0.224 & -0.355 & 0.130 & 0.105 & -0.172 & -0.264 & -0.200 & -0.291 & 0.036 & 1.000 & 0.214 & -0.218 & -0.336 & -0.076 & -0.278 & -0.063 & 0.266 & 0.328 & 0.065 & 0.017 & -0.112 & 0.039\\
+Land U & -0.755 & -0.412 & -0.366 & 0.422 & 0.125 & 0.238 & -0.702 & 0.338 & -0.534 & -0.241 & 0.271 & 0.381 & -0.449 & 0.049 & -0.313 & -0.471 & 0.101 & 0.126 & 0.114 & -0.001 & -0.190 & 0.103 & -0.399 & 0.579 & 0.440 & -0.450 & -0.391 & -0.845 & -0.371 & -0.271 & 0.214 & 1.000 & -0.032 & -0.279 & 0.271 & 0.210 & -0.378 & 0.184 & 0.597 & -0.163 & 0.525 & -0.430 & -0.060\\
+Fuel E & 0.292 & -0.025 & -0.166 & -0.301 & 0.383 & 0.108 & 0.114 & 0.103 & 0.160 & 0.130 & 0.053 & -0.094 & 0.208 & -0.003 & 0.009 & 0.066 & -0.083 & 0.092 & -0.195 & -0.020 & 0.091 & -0.086 & -0.006 & -0.372 & -0.252 & 0.479 & 0.232 & 0.164 & 0.242 & 0.087 & -0.218 & -0.032 & 1.000 & -0.094 & -0.157 & -0.034 & 0.219 & -0.204 & -0.198 & -0.333 & -0.128 & -0.027 & -0.353\\
+Annual & 0.175 & -0.023 & 0.465 & -0.054 & -0.419 & 0.094 & 0.287 & -0.165 & 0.006 & 0.308 & 0.091 & -0.463 & 0.591 & 0.416 & 0.073 & 0.229 & 0.400 & -0.375 & -0.383 & 0.127 & 0.550 & 0.064 & 0.388 & -0.150 & -0.429 & 0.111 & -0.136 & 0.018 & -0.016 & -0.022 & -0.336 & -0.279 & -0.094 & 1.000 & -0.148 & 0.218 & -0.002 & -0.263 & -0.459 & 0.253 & -0.425 & -0.153 & -0.039\\
+Total & -0.080 & -0.014 & -0.266 & 0.045 & 0.128 & -0.072 & -0.165 & 0.343 & -0.160 & -0.090 & -0.062 & 0.075 & 0.077 & 0.325 & -0.255 & 0.077 & 0.244 & 0.281 & 0.374 & 0.304 & 0.074 & 0.247 & 0.254 & 0.417 & 0.306 & -0.135 & -0.423 & -0.330 & -0.034 & 0.060 & -0.076 & 0.271 & -0.157 & -0.148 & 1.000 & 0.182 & 0.073 & -0.069 & 0.059 & 0.196 & 0.542 & 0.074 & -0.011\\
 \addlinespace
-Annual & -0.023 & 0.465 & -0.054 & -0.419 & 0.428 & 0.094 & 0.287 & -0.165 & 0.006 & 0.308 & 0.091 & -0.463 & 0.591 & 0.416 & 0.073 & 0.229 & 0.400 & -0.375 & -0.383 & 0.127 & 0.550 & 0.064 & 0.388 & -0.150 & -0.429 & 0.111 & -0.136 & 0.018 & 0.356 & -0.016 & -0.022 & -0.336 & -0.279 & -0.094 & -0.004 & 1.000 & -0.148 & 0.218 & -0.002 & -0.263 & -0.459 & 0.253 & -0.425 & -0.153 & -0.039\\
-Total & -0.014 & -0.266 & 0.045 & 0.128 & 0.038 & -0.072 & -0.165 & 0.343 & -0.160 & -0.090 & -0.062 & 0.075 & 0.077 & 0.325 & -0.255 & 0.077 & 0.244 & 0.281 & 0.374 & 0.304 & 0.074 & 0.247 & 0.254 & 0.417 & 0.306 & -0.135 & -0.423 & -0.330 & -0.014 & -0.034 & 0.060 & -0.076 & 0.271 & -0.157 & -0.121 & -0.148 & 1.000 & 0.182 & 0.073 & -0.069 & 0.059 & 0.196 & 0.542 & 0.074 & -0.011\\
-Sales & -0.085 & 0.126 & 0.232 & 0.195 & 0.044 & 0.317 & -0.268 & -0.071 & -0.081 & -0.156 & 0.080 & 0.071 & 0.001 & 0.228 & -0.186 & -0.073 & 0.339 & -0.188 & -0.072 & 0.161 & 0.253 & 0.217 & 0.205 & 0.214 & 0.019 & -0.113 & -0.151 & -0.265 & -0.092 & -0.027 & -0.255 & -0.278 & 0.210 & -0.034 & -0.185 & 0.218 & 0.182 & 1.000 & -0.055 & 0.075 & 0.093 & 0.111 & -0.131 & -0.050 & -0.224\\
-Percen & -0.098 & -0.066 & -0.208 & 0.048 & 0.272 & -0.106 & 0.220 & -0.055 & 0.206 & 0.067 & -0.229 & -0.256 & 0.240 & 0.107 & 0.174 & 0.108 & -0.099 & 0.173 & -0.170 & 0.078 & -0.019 & -0.114 & 0.182 & -0.172 & -0.267 & 0.269 & 0.188 & 0.216 & 0.052 & 0.297 & 0.051 & -0.063 & -0.378 & 0.219 & 0.260 & -0.002 & 0.073 & -0.055 & 1.000 & 0.095 & -0.165 & -0.042 & -0.162 & 0.319 & 0.072\\
-Market & -0.327 & -0.399 & 0.118 & -0.102 & -0.327 & 0.109 & -0.315 & -0.153 & -0.195 & -0.282 & -0.171 & 0.060 & -0.275 & 0.167 & -0.193 & -0.596 & -0.309 & -0.094 & 0.354 & -0.182 & -0.333 & -0.303 & -0.248 & 0.276 & 0.104 & -0.283 & 0.083 & -0.134 & -0.410 & -0.383 & -0.528 & 0.266 & 0.184 & -0.204 & -0.084 & -0.263 & -0.069 & 0.075 & 0.095 & 1.000 & 0.583 & -0.057 & 0.223 & 0.031 & 0.097\\
+Sales & -0.199 & -0.085 & 0.126 & 0.232 & 0.195 & 0.317 & -0.268 & -0.071 & -0.081 & -0.156 & 0.080 & 0.071 & 0.001 & 0.228 & -0.186 & -0.073 & 0.339 & -0.188 & -0.072 & 0.161 & 0.253 & 0.217 & 0.205 & 0.214 & 0.019 & -0.113 & -0.151 & -0.265 & -0.027 & -0.255 & -0.278 & 0.210 & -0.034 & 0.218 & 0.182 & 1.000 & -0.055 & 0.075 & 0.093 & 0.111 & -0.131 & -0.050 & -0.224\\
+Percen & 0.282 & -0.098 & -0.066 & -0.208 & 0.048 & -0.106 & 0.220 & -0.055 & 0.206 & 0.067 & -0.229 & -0.256 & 0.240 & 0.107 & 0.174 & 0.108 & -0.099 & 0.173 & -0.170 & 0.078 & -0.019 & -0.114 & 0.182 & -0.172 & -0.267 & 0.269 & 0.188 & 0.216 & 0.297 & 0.051 & -0.063 & -0.378 & 0.219 & -0.002 & 0.073 & -0.055 & 1.000 & 0.095 & -0.165 & -0.042 & -0.162 & 0.319 & 0.072\\
+Market & -0.277 & -0.327 & -0.399 & 0.118 & -0.102 & 0.109 & -0.315 & -0.153 & -0.195 & -0.282 & -0.171 & 0.060 & -0.275 & 0.167 & -0.193 & -0.596 & -0.309 & -0.094 & 0.354 & -0.182 & -0.333 & -0.303 & -0.248 & 0.276 & 0.104 & -0.283 & 0.083 & -0.134 & -0.383 & -0.528 & 0.266 & 0.184 & -0.204 & -0.263 & -0.069 & 0.075 & 0.095 & 1.000 & 0.583 & -0.057 & 0.223 & 0.031 & 0.097\\
+Land a & -0.695 & -0.481 & -0.210 & 0.347 & 0.047 & 0.114 & -0.668 & -0.087 & -0.352 & -0.498 & -0.021 & 0.496 & -0.603 & -0.271 & -0.140 & -0.677 & -0.226 & 0.186 & 0.225 & -0.284 & -0.463 & -0.147 & -0.624 & 0.504 & 0.526 & -0.625 & 0.136 & -0.557 & -0.472 & -0.390 & 0.328 & 0.597 & -0.198 & -0.459 & 0.059 & 0.093 & -0.165 & 0.583 & 1.000 & 0.063 & 0.278 & -0.089 & 0.321\\
+Gini I & 0.019 & -0.167 & 0.300 & 0.035 & -0.404 & -0.088 & 0.071 & -0.253 & 0.081 & -0.065 & -0.048 & -0.130 & 0.228 & -0.197 & 0.419 & 0.056 & 0.239 & -0.001 & -0.258 & -0.146 & 0.216 & 0.159 & 0.213 & 0.060 & -0.016 & -0.238 & -0.137 & 0.022 & -0.194 & 0.172 & 0.065 & -0.163 & -0.333 & 0.253 & 0.196 & 0.111 & -0.042 & -0.057 & 0.063 & 1.000 & -0.113 & 0.077 & 0.273\\
 \addlinespace
-Land a & -0.481 & -0.210 & 0.347 & 0.047 & -0.769 & 0.114 & -0.668 & -0.087 & -0.352 & -0.498 & -0.021 & 0.496 & -0.603 & -0.271 & -0.140 & -0.677 & -0.226 & 0.186 & 0.225 & -0.284 & -0.463 & -0.147 & -0.624 & 0.504 & 0.526 & -0.625 & 0.136 & -0.557 & -0.616 & -0.472 & -0.390 & 0.328 & 0.597 & -0.198 & -0.487 & -0.459 & 0.059 & 0.093 & -0.165 & 0.583 & 1.000 & 0.063 & 0.278 & -0.089 & 0.321\\
-Gini I & -0.167 & 0.300 & 0.035 & -0.404 & -0.205 & -0.088 & 0.071 & -0.253 & 0.081 & -0.065 & -0.048 & -0.130 & 0.228 & -0.197 & 0.419 & 0.056 & 0.239 & -0.001 & -0.258 & -0.146 & 0.216 & 0.159 & 0.213 & 0.060 & -0.016 & -0.238 & -0.137 & 0.022 & 0.104 & -0.194 & 0.172 & 0.065 & -0.163 & -0.333 & -0.176 & 0.253 & 0.196 & 0.111 & -0.042 & -0.057 & 0.063 & 1.000 & -0.113 & 0.077 & 0.273\\
-Expens & -0.236 & -0.587 & 0.081 & 0.099 & -0.192 & -0.012 & -0.206 & 0.804 & -0.278 & -0.052 & 0.331 & 0.171 & -0.245 & 0.022 & -0.245 & -0.207 & -0.214 & 0.079 & 0.324 & 0.130 & -0.319 & -0.065 & -0.104 & 0.323 & 0.306 & -0.303 & -0.373 & -0.352 & -0.272 & -0.097 & -0.068 & 0.017 & 0.525 & -0.128 & -0.214 & -0.425 & 0.542 & -0.131 & -0.162 & 0.223 & 0.278 & -0.113 & 1.000 & -0.065 & 0.071\\
-Change & 0.038 & 0.133 & -0.307 & -0.007 & 0.232 & -0.115 & 0.396 & -0.038 & -0.009 & -0.199 & -0.199 & 0.022 & -0.073 & -0.077 & 0.101 & 0.002 & -0.344 & -0.122 & 0.006 & -0.056 & -0.249 & -0.207 & -0.069 & -0.223 & -0.188 & 0.272 & 0.198 & 0.404 & 0.206 & 0.129 & -0.091 & -0.112 & -0.430 & -0.027 & 0.264 & -0.153 & 0.074 & -0.050 & 0.319 & 0.031 & -0.089 & 0.077 & -0.065 & 1.000 & 0.395\\
-Averag & -0.078 & 0.253 & -0.275 & -0.417 & -0.163 & -0.285 & 0.095 & -0.026 & -0.063 & -0.202 & 0.023 & -0.013 & -0.258 & -0.408 & 0.092 & -0.078 & -0.133 & -0.059 & -0.027 & 0.011 & -0.126 & 0.049 & -0.140 & 0.124 & -0.059 & -0.258 & 0.273 & 0.071 & 0.142 & -0.291 & -0.101 & 0.039 & -0.060 & -0.353 & -0.175 & -0.039 & -0.011 & -0.224 & 0.072 & 0.097 & 0.321 & 0.273 & 0.071 & 0.395 & 1.000\\
+Expens & -0.255 & -0.236 & -0.587 & 0.081 & 0.099 & -0.012 & -0.206 & 0.804 & -0.278 & -0.052 & 0.331 & 0.171 & -0.245 & 0.022 & -0.245 & -0.207 & -0.214 & 0.079 & 0.324 & 0.130 & -0.319 & -0.065 & -0.104 & 0.323 & 0.306 & -0.303 & -0.373 & -0.352 & -0.097 & -0.068 & 0.017 & 0.525 & -0.128 & -0.425 & 0.542 & -0.131 & -0.162 & 0.223 & 0.278 & -0.113 & 1.000 & -0.065 & 0.071\\
+Change & 0.256 & 0.038 & 0.133 & -0.307 & -0.007 & -0.115 & 0.396 & -0.038 & -0.009 & -0.199 & -0.199 & 0.022 & -0.073 & -0.077 & 0.101 & 0.002 & -0.344 & -0.122 & 0.006 & -0.056 & -0.249 & -0.207 & -0.069 & -0.223 & -0.188 & 0.272 & 0.198 & 0.404 & 0.129 & -0.091 & -0.112 & -0.430 & -0.027 & -0.153 & 0.074 & -0.050 & 0.319 & 0.031 & -0.089 & 0.077 & -0.065 & 1.000 & 0.395\\
+Averag & -0.109 & -0.078 & 0.253 & -0.275 & -0.417 & -0.285 & 0.095 & -0.026 & -0.063 & -0.202 & 0.023 & -0.013 & -0.258 & -0.408 & 0.092 & -0.078 & -0.133 & -0.059 & -0.027 & 0.011 & -0.126 & 0.049 & -0.140 & 0.124 & -0.059 & -0.258 & 0.273 & 0.071 & -0.291 & -0.101 & 0.039 & -0.060 & -0.353 & -0.039 & -0.011 & -0.224 & 0.072 & 0.097 & 0.321 & 0.273 & 0.071 & 0.395 & 1.000\\
 \bottomrule
 \end{tabular}
 \end{table}
